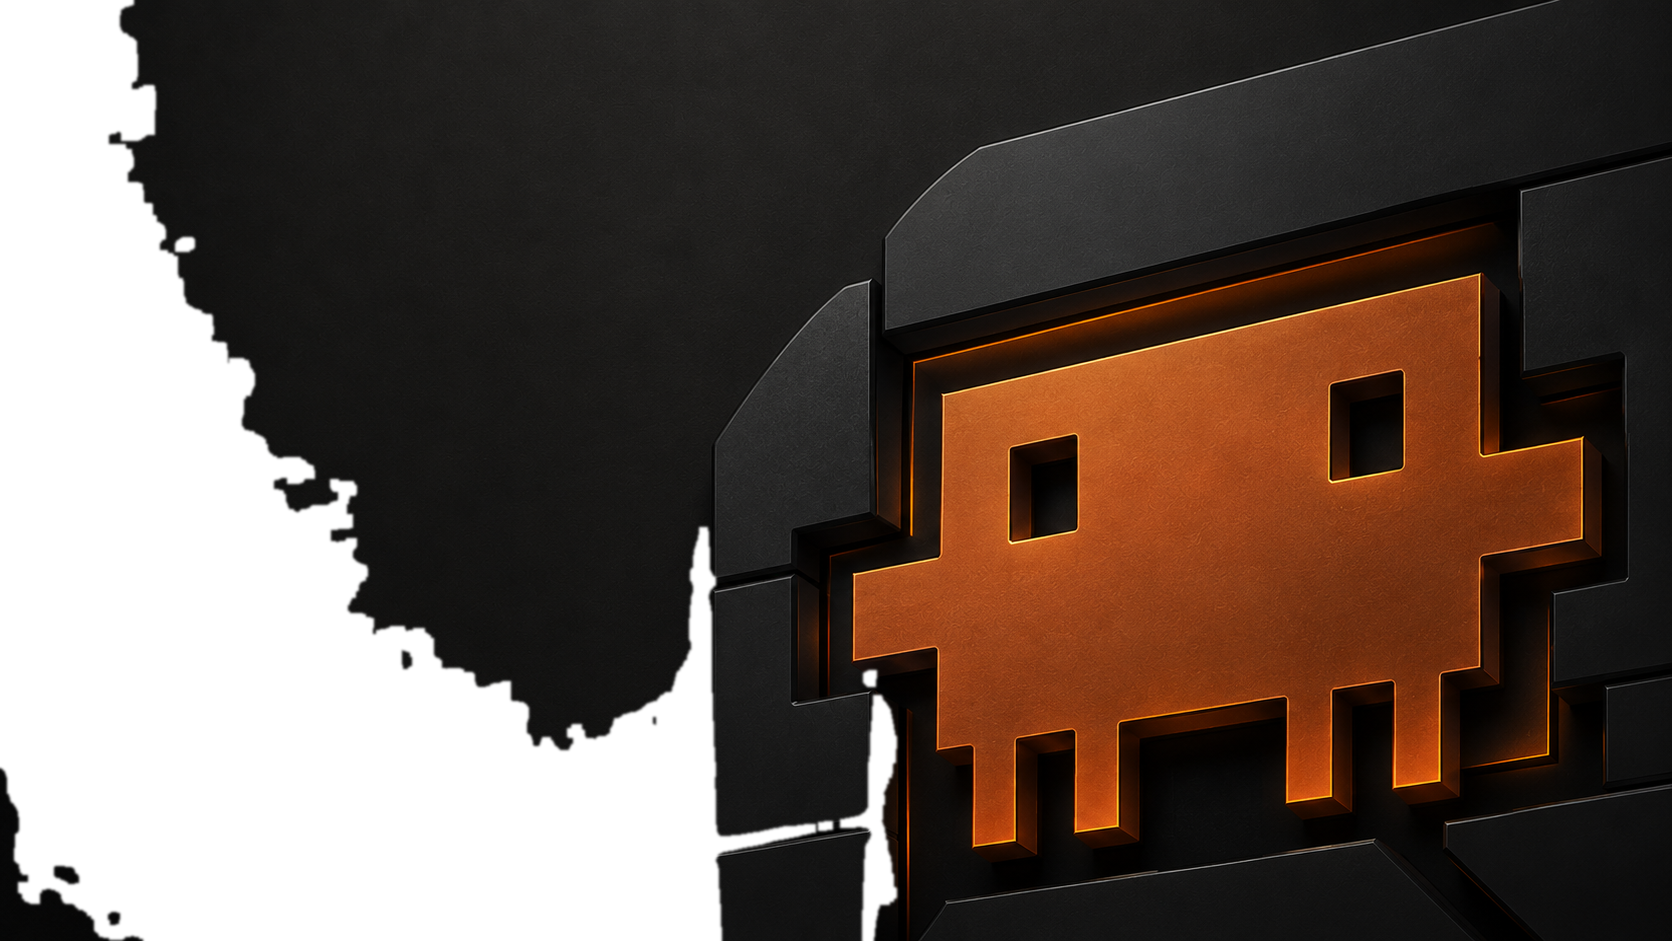
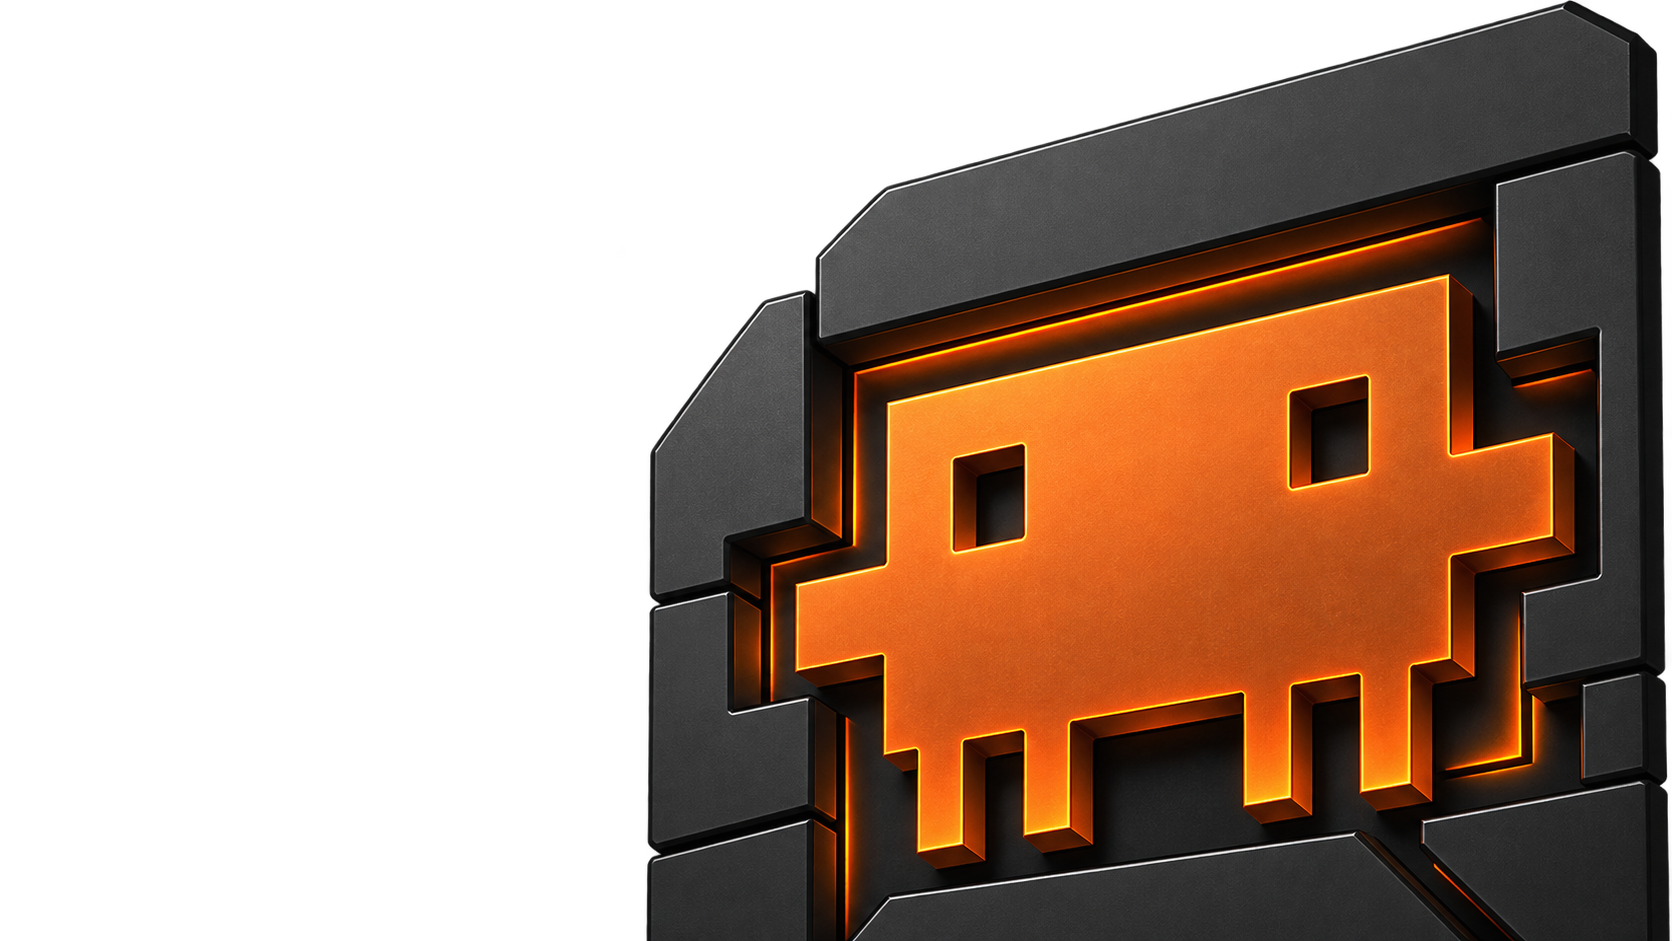
Give Background its own section with card previews; add Atreus/Link
Adds two new background images (Atreus, Link) matching those theme
families, and replaces Clawd's artwork with a background-fixed
version. Background Image moves out of General into its own section
(after Panel Style), rendered as cards with an actual preview of each
image, matching the Theme/Font/Panel Style picker style.

Also: switching the active theme family now swaps the background to
match automatically (claude->clawd, thomas->vide, link->link,
atreus->atreus, luuk->none), via a useThemeStore subscription in
displayStore.ts that only fires on an actual family change — light/
dark variant and "match system appearance" toggles within the same
family leave the background alone. Reordered BACKGROUND_IMAGE_OPTIONS
to put Clawd (Claude) before vIDE, matching the family picker's order.

displayStore.ts now transitively imports themeStore.ts for this
subscription, so its module-load code needs window.matchMedia — three
existing displayStore test files needed that stub added since they
previously only mocked document/localStorage.

diff --git a/src/stores/__tests__/displayStore.familyBackground.test.ts b/src/stores/__tests__/displayStore.familyBackground.test.ts
@@ -1,0 +1,81 @@
+import { describe, it, expect, beforeEach, vi } from 'vitest'
+
+const { localStorageStore, mediaState } = vi.hoisted(() => {
+  const localStorageStore: Record<string, string> = {}
+  ;(global as any).localStorage = {
+    getItem: (k: string) => localStorageStore[k] ?? null,
+    setItem: (k: string, v: string) => { localStorageStore[k] = v },
+    removeItem: (k: string) => { delete localStorageStore[k] },
+  }
+
+  const mediaState = { matches: false }
+  ;(globalThis as any).window = {
+    matchMedia: () => ({
+      get matches() { return mediaState.matches },
+      addEventListener: () => {},
+      removeEventListener: () => {},
+    }),
+  }
+  ;(globalThis as any).document = {
+    documentElement: {
+      style: { setProperty: () => {} },
+      setAttribute: () => {},
+    },
+  }
+
+  return { localStorageStore, mediaState }
+})
+
+import { useThemeStore } from '../themeStore'
+import { useDisplayStore } from '../displayStore'
+
+beforeEach(() => {
+  Object.keys(localStorageStore).forEach((k) => delete localStorageStore[k])
+  mediaState.matches = false
+  useThemeStore.setState({ theme: 'link-dark', matchSystem: false })
+  useDisplayStore.setState({ backgroundImage: 'none' })
+})
+
+describe('background image follows the active theme family', () => {
+  it('switches to clawd when the family becomes claude', () => {
+    useThemeStore.getState().setFamily('claude')
+    expect(useDisplayStore.getState().backgroundImage).toBe('clawd')
+  })
+
+  it('switches to vide for the thomas (vIDE) family', () => {
+    useThemeStore.getState().setFamily('thomas')
+    expect(useDisplayStore.getState().backgroundImage).toBe('vide')
+  })
+
+  it('switches to link for the link family', () => {
+    useThemeStore.setState({ theme: 'claude-dark' })
+    useThemeStore.getState().setFamily('link')
+    expect(useDisplayStore.getState().backgroundImage).toBe('link')
+  })
+
+  it('switches to atreus for the atreus family', () => {
+    useThemeStore.getState().setFamily('atreus')
+    expect(useDisplayStore.getState().backgroundImage).toBe('atreus')
+  })
+
+  it('clears to none for the luuk family', () => {
+    useDisplayStore.setState({ backgroundImage: 'vide' })
+    useThemeStore.getState().setFamily('luuk')
+    expect(useDisplayStore.getState().backgroundImage).toBe('none')
+  })
+
+  it('does not touch the background when only the light/dark variant changes within the same family', () => {
+    useThemeStore.getState().setFamily('atreus')
+    useDisplayStore.getState().setBackgroundImage('none')
+    useThemeStore.getState().setVariant(false)
+    expect(useThemeStore.getState().theme).toBe('atreus-light')
+    expect(useDisplayStore.getState().backgroundImage).toBe('none')
+  })
+
+  it('does not touch the background when only "match system appearance" toggles within the same family', () => {
+    useThemeStore.getState().setFamily('atreus')
+    useDisplayStore.getState().setBackgroundImage('none')
+    useThemeStore.getState().setMatchSystem(true)
+    expect(useDisplayStore.getState().backgroundImage).toBe('none')
+  })
+})

diff --git a/src/components/Settings/DisplayPage.tsx b/src/components/Settings/DisplayPage.tsx
@@ -1,7 +1,7 @@
 import type { CSSProperties } from 'react'
 import {
-  useDisplayStore, basePanelColors, PANEL_STYLE_OPTIONS, BACKGROUND_IMAGE_OPTIONS,
-  type FooterContent, type BackgroundImage,
+  useDisplayStore, basePanelColors, PANEL_STYLE_OPTIONS,
+  type FooterContent,
 } from '@/stores/displayStore'
 import { useThemeStore } from '@/stores/themeStore'
 import { Toggle } from '@/components/ui/Toggle'
@@ -9,6 +9,7 @@ import { Select } from '@/components/ui/Select'
 import { Section, Row } from './SettingsLayout'
 import { ThemeSection } from './ThemeSection'
 import { FontSection } from './FontSection'
+import { BackgroundSection } from './BackgroundSection'
 
 const FOOTER_CONTENT_OPTIONS: { value: FooterContent; label: string }[] = [
   { value: 'hints', label: 'Hints' },
@@ -41,8 +42,8 @@ const brushedMetalPreviewStyle: CSSProperties = {
 
 export function DisplayPage() {
   const {
-    panelStyle, footerContent, memoryUsageVisible, backgroundImage, navbarPosition,
-    setPanelStyle, setFooterContent, setMemoryUsageVisible, setBackgroundImage, setNavbarPosition,
+    panelStyle, footerContent, memoryUsageVisible, navbarPosition,
+    setPanelStyle, setFooterContent, setMemoryUsageVisible, setNavbarPosition,
   } = useDisplayStore()
   // Only read to force a re-render (and so basePanelColors() below picks up
   // the change) when the active theme changes elsewhere — its value isn't
@@ -147,6 +148,8 @@ export function DisplayPage() {
         </div>
       </Section>
 
+      <BackgroundSection />
+
       {/* ── General ───────────────────────────────────────────────────────── */}
       <Section label="General">
         <Row>
@@ -158,15 +161,6 @@ export function DisplayPage() {
                 value={footerContent}
                 onChange={(v) => setFooterContent(v as FooterContent)}
                 options={FOOTER_CONTENT_OPTIONS}
-              />
-            </div>
-            <div className="flex flex-col gap-1.5 min-w-[180px]">
-              <label htmlFor="background-image-select" className="text-sm text-fg">Background Image</label>
-              <Select
-                id="background-image-select"
-                value={backgroundImage}
-                onChange={(v) => setBackgroundImage(v as BackgroundImage)}
-                options={BACKGROUND_IMAGE_OPTIONS}
               />
             </div>
           </div>

diff --git a/src/stores/displayStore.ts b/src/stores/displayStore.ts
@@ -1,4 +1,5 @@
 import { create } from 'zustand'
+import { useThemeStore, familyOf } from './themeStore'
 
 const FONT_KEY = 'vide:font'
 const PANEL_STYLE_KEY = 'vide:panelStyle'
@@ -37,15 +38,29 @@ export const PANEL_STYLE_OPTIONS: { value: PanelStyle; label: string; descriptio
 // don't need reshaping when that happens.
 export type FooterContent = 'hints' | 'clock'
 
-export type BackgroundImage = 'none' | 'vide' | 'clawd'
+export type BackgroundImage = 'none' | 'vide' | 'clawd' | 'atreus' | 'link'
 
 // Shared between DisplayPage and the setup wizard's theme step, same as
 // PANEL_STYLE_OPTIONS below.
 export const BACKGROUND_IMAGE_OPTIONS: { value: BackgroundImage; label: string }[] = [
-  { value: 'none',  label: 'None' },
-  { value: 'vide',  label: 'vIDE' },
-  { value: 'clawd', label: 'Clawd' },
+  { value: 'none',   label: 'None' },
+  { value: 'clawd',  label: 'Clawd' },
+  { value: 'vide',   label: 'vIDE' },
+  { value: 'link',   label: 'Link' },
+  { value: 'atreus', label: 'Atreus' },
 ]
+
+// Each built-in theme family's matching background — swapping the active
+// theme family swaps the background to follow (see the useThemeStore
+// subscription below). Luuk has no artwork of its own, so it clears the
+// background rather than leaving whatever was previously selected.
+const FAMILY_BACKGROUND: Record<string, BackgroundImage> = {
+  claude: 'clawd',
+  thomas: 'vide',
+  link: 'link',
+  atreus: 'atreus',
+  luuk: 'none',
+}
 
 // Which physical side the primary (Explorer/Git/Settings) activity bar and
 // its Sidebar panel render on; the Claude/assistant activity bar and Chat
@@ -163,3 +178,16 @@ export const useDisplayStore = create<DisplayStore>((set) => ({
     set({ navbarPosition: position })
   },
 }))
+
+// Swaps the background image to match whenever the active theme family
+// changes — whether from a built-in family card or activating a custom
+// theme (which also calls setFamily(baseFamily)). Only fires on an actual
+// family change, not a light/dark variant or "match system appearance"
+// toggle within the same family, so those never disturb a background the
+// user set explicitly.
+useThemeStore.subscribe((state, prevState) => {
+  const family = familyOf(state.theme)
+  if (family === familyOf(prevState.theme)) return
+  const next = FAMILY_BACKGROUND[family]
+  if (next) useDisplayStore.getState().setBackgroundImage(next)
+})

diff --git a/src/components/Settings/BackgroundSection.tsx b/src/components/Settings/BackgroundSection.tsx
@@ -1,0 +1,51 @@
+import { useDisplayStore, BACKGROUND_IMAGE_OPTIONS, type BackgroundImage } from '@/stores/displayStore'
+import { EMPTY_EDITOR_BACKGROUNDS } from '@/assets/emptyEditorBackgrounds'
+import { Section } from './SettingsLayout'
+
+export function BackgroundSection() {
+  const backgroundImage = useDisplayStore((s) => s.backgroundImage)
+  const setBackgroundImage = useDisplayStore((s) => s.setBackgroundImage)
+
+  return (
+    <Section label="Background">
+      <div className="pb-4 pl-3">
+        <div className="grid grid-cols-[repeat(auto-fill,minmax(130px,1fr))] gap-3">
+          {BACKGROUND_IMAGE_OPTIONS.map((opt) => {
+            const isActive = backgroundImage === opt.value
+            const image = opt.value === 'none' ? null : EMPTY_EDITOR_BACKGROUNDS[opt.value as Exclude<BackgroundImage, 'none'>]
+            return (
+              <button
+                key={opt.value}
+                type="button"
+                onClick={() => setBackgroundImage(opt.value)}
+                className={[
+                  'text-left rounded-lg border-2 overflow-hidden transition-colors',
+                  isActive ? 'border-accent' : 'border-border hover:border-fg-muted',
+                ].join(' ')}
+              >
+                <div className="h-14 relative overflow-hidden bg-bg">
+                  {image && (
+                    <div
+                      className="absolute inset-0 bg-no-repeat"
+                      style={{ backgroundImage: `url(${image})`, backgroundSize: 'cover', backgroundPosition: 'center right' }}
+                    />
+                  )}
+                </div>
+                <div className={['px-3 py-2', isActive ? 'bg-accent/10' : 'bg-sidebar'].join(' ')}>
+                  <div className="flex items-center justify-between gap-2">
+                    <span className={['text-sm font-medium truncate', isActive ? 'text-fg' : 'text-fg-muted'].join(' ')}>
+                      {opt.label}
+                    </span>
+                    {isActive && (
+                      <span className="shrink-0 text-xs font-medium text-accent px-1.5 py-0.5 rounded bg-accent/10">Active</span>
+                    )}
+                  </div>
+                </div>
+              </button>
+            )
+          })}
+        </div>
+      </div>
+    </Section>
+  )
+}

diff --git a/src/components/Settings/__tests__/BackgroundSection.test.tsx b/src/components/Settings/__tests__/BackgroundSection.test.tsx
@@ -1,0 +1,46 @@
+/// <reference types="@testing-library/jest-dom" />
+import { describe, it, expect, afterEach } from 'vitest'
+import { render, screen, cleanup, fireEvent } from '@testing-library/react'
+import { BackgroundSection } from '../BackgroundSection'
+import { useDisplayStore } from '@/stores/displayStore'
+
+afterEach(() => {
+  cleanup()
+  useDisplayStore.setState({ backgroundImage: 'none' })
+})
+
+describe('BackgroundSection', () => {
+  it('renders a card for every background option, including the two new ones', () => {
+    render(<BackgroundSection />)
+    expect(screen.getByText('None')).toBeInTheDocument()
+    expect(screen.getByText('vIDE')).toBeInTheDocument()
+    expect(screen.getByText('Clawd')).toBeInTheDocument()
+    expect(screen.getByText('Atreus')).toBeInTheDocument()
+    expect(screen.getByText('Link')).toBeInTheDocument()
+  })
+
+  it('marks the active background option', () => {
+    useDisplayStore.setState({ backgroundImage: 'atreus' })
+    render(<BackgroundSection />)
+    expect(screen.getByText('Atreus').closest('button')).toHaveClass('border-accent')
+    expect(screen.getByText('Link').closest('button')).not.toHaveClass('border-accent')
+  })
+
+  it('clicking a card sets the background image', () => {
+    render(<BackgroundSection />)
+    fireEvent.click(screen.getByText('Link'))
+    expect(useDisplayStore.getState().backgroundImage).toBe('link')
+  })
+
+  it('does not render a preview image for the None card', () => {
+    render(<BackgroundSection />)
+    const noneCard = screen.getByText('None').closest('button')!
+    expect(noneCard.querySelector('[style*="background-image"]')).toBeNull()
+  })
+
+  it('renders a preview image for a real background option', () => {
+    render(<BackgroundSection />)
+    const videCard = screen.getByText('vIDE').closest('button')!
+    expect(videCard.querySelector('[style*="background-image"]')).not.toBeNull()
+  })
+})

diff --git a/src/assets/emptyEditorBackgrounds.ts b/src/assets/emptyEditorBackgrounds.ts
@@ -1,10 +1,15 @@
 import vide from './emptyEditorBackground.png'
 import clawd from './emptyEditorBackgroundClawd.png'
+import atreus from './emptyEditorBackgroundAtreus.png'
+import link from './emptyEditorBackgroundLink.png'
 import type { BackgroundImage } from '@/stores/displayStore'
 
 // Shared by EmptyEditorBackground.tsx and App.tsx's app-bg-badge — both
-// render whichever image the 'none' | 'vide' | 'clawd' picker selects.
+// render whichever image the 'none' | 'vide' | 'clawd' | 'atreus' | 'link'
+// picker selects.
 export const EMPTY_EDITOR_BACKGROUNDS: Record<Exclude<BackgroundImage, 'none'>, string> = {
   vide,
   clawd,
+  atreus,
+  link,
 }

diff --git a/src/stores/__tests__/displayStore.basePanelColors.test.ts b/src/stores/__tests__/displayStore.basePanelColors.test.ts
@@ -32,6 +32,15 @@ const { domState } = vi.hoisted(() => {
     setItem: () => {},
     removeItem: () => {},
   }
+  // displayStore.ts now imports themeStore.ts (for the family-background
+  // subscription), whose own module-load code needs window.matchMedia.
+  ;(globalThis as any).window = {
+    matchMedia: () => ({
+      matches: false,
+      addEventListener: () => {},
+      removeEventListener: () => {},
+    }),
+  }
   ;(global as any).getComputedStyle = () => ({
     getPropertyValue: (k: string) => (domState.panelStyle === 'glossy' && k in GLOSSY ? GLOSSY[k] : BASE[k] ?? ''),
   })

diff --git a/src/stores/__tests__/displayStore.footer.test.ts b/src/stores/__tests__/displayStore.footer.test.ts
@@ -13,6 +13,15 @@ const { localStorageStore } = vi.hoisted(() => {
       setAttribute: () => {},
     },
   }
+  // displayStore.ts now imports themeStore.ts (for the family-background
+  // subscription), whose own module-load code needs window.matchMedia.
+  ;(globalThis as any).window = {
+    matchMedia: () => ({
+      matches: false,
+      addEventListener: () => {},
+      removeEventListener: () => {},
+    }),
+  }
   return { localStorageStore }
 })
 

diff --git a/src/stores/__tests__/displayStore.panelStyle.test.ts b/src/stores/__tests__/displayStore.panelStyle.test.ts
@@ -13,6 +13,15 @@ const { localStorageStore } = vi.hoisted(() => {
       setAttribute: () => {},
     },
   }
+  // displayStore.ts now imports themeStore.ts (for the family-background
+  // subscription), whose own module-load code needs window.matchMedia.
+  ;(globalThis as any).window = {
+    matchMedia: () => ({
+      matches: false,
+      addEventListener: () => {},
+      removeEventListener: () => {},
+    }),
+  }
   return { localStorageStore }
 })
 
